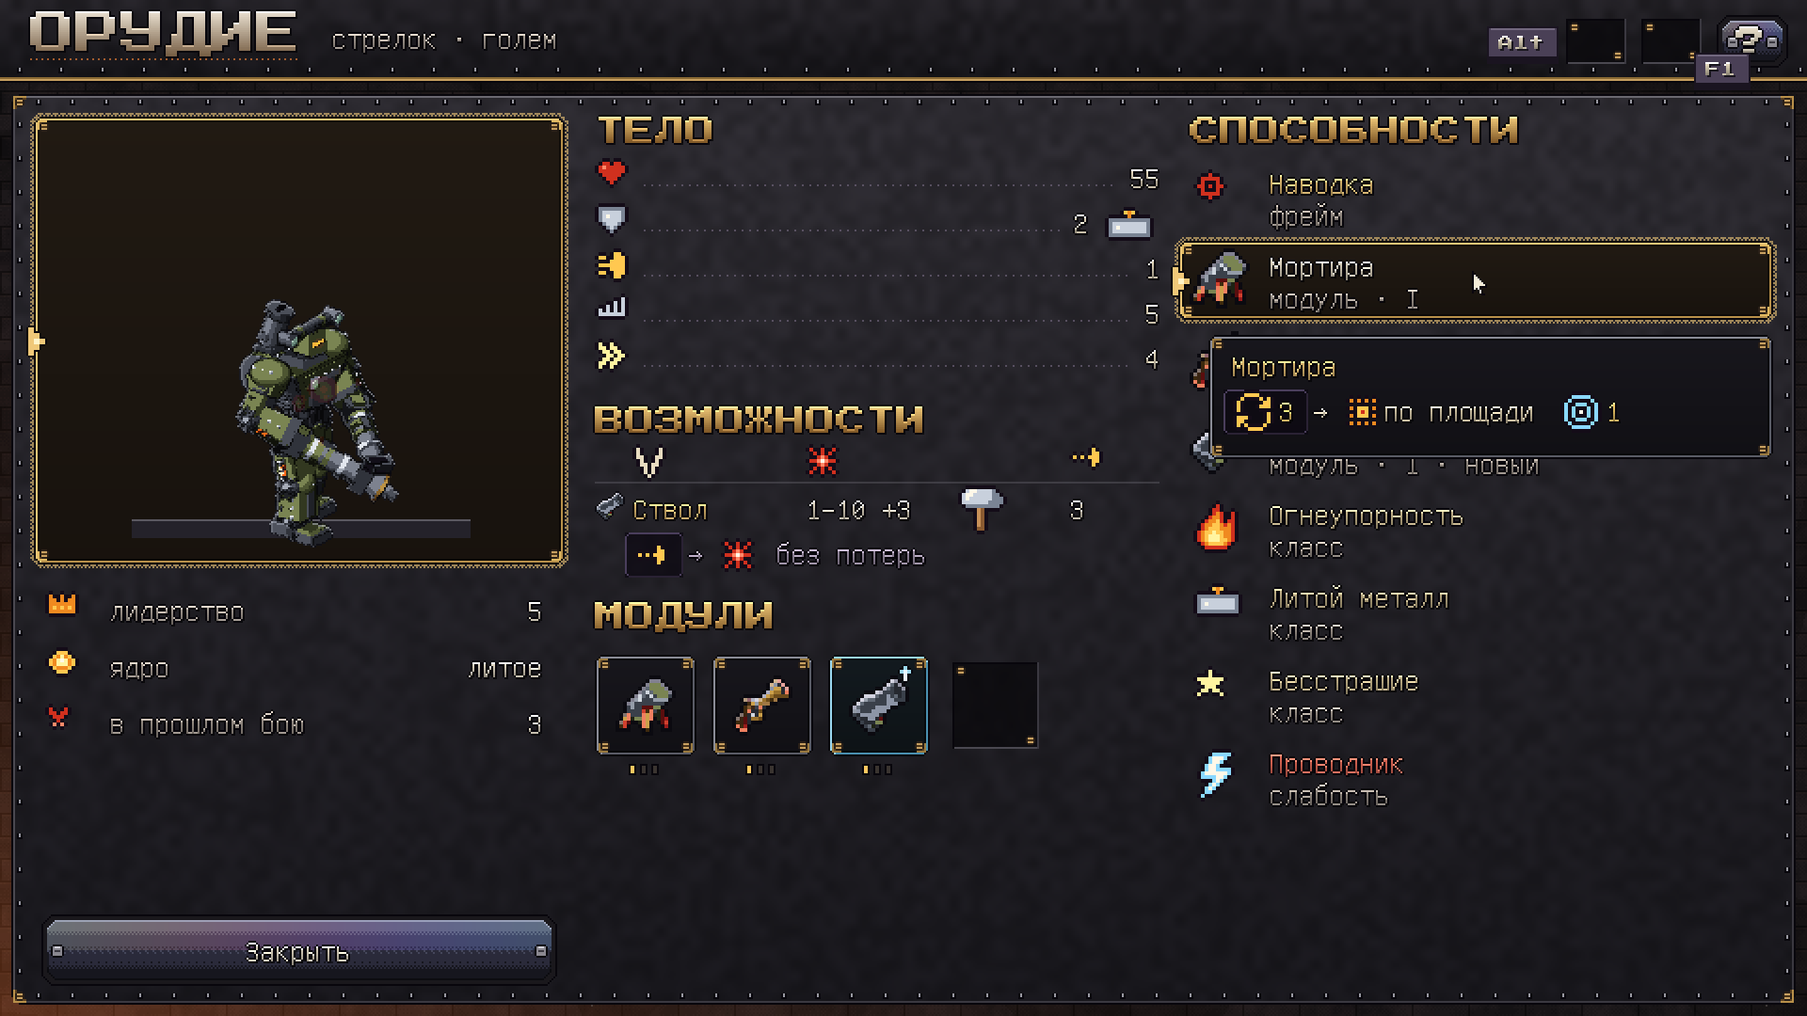
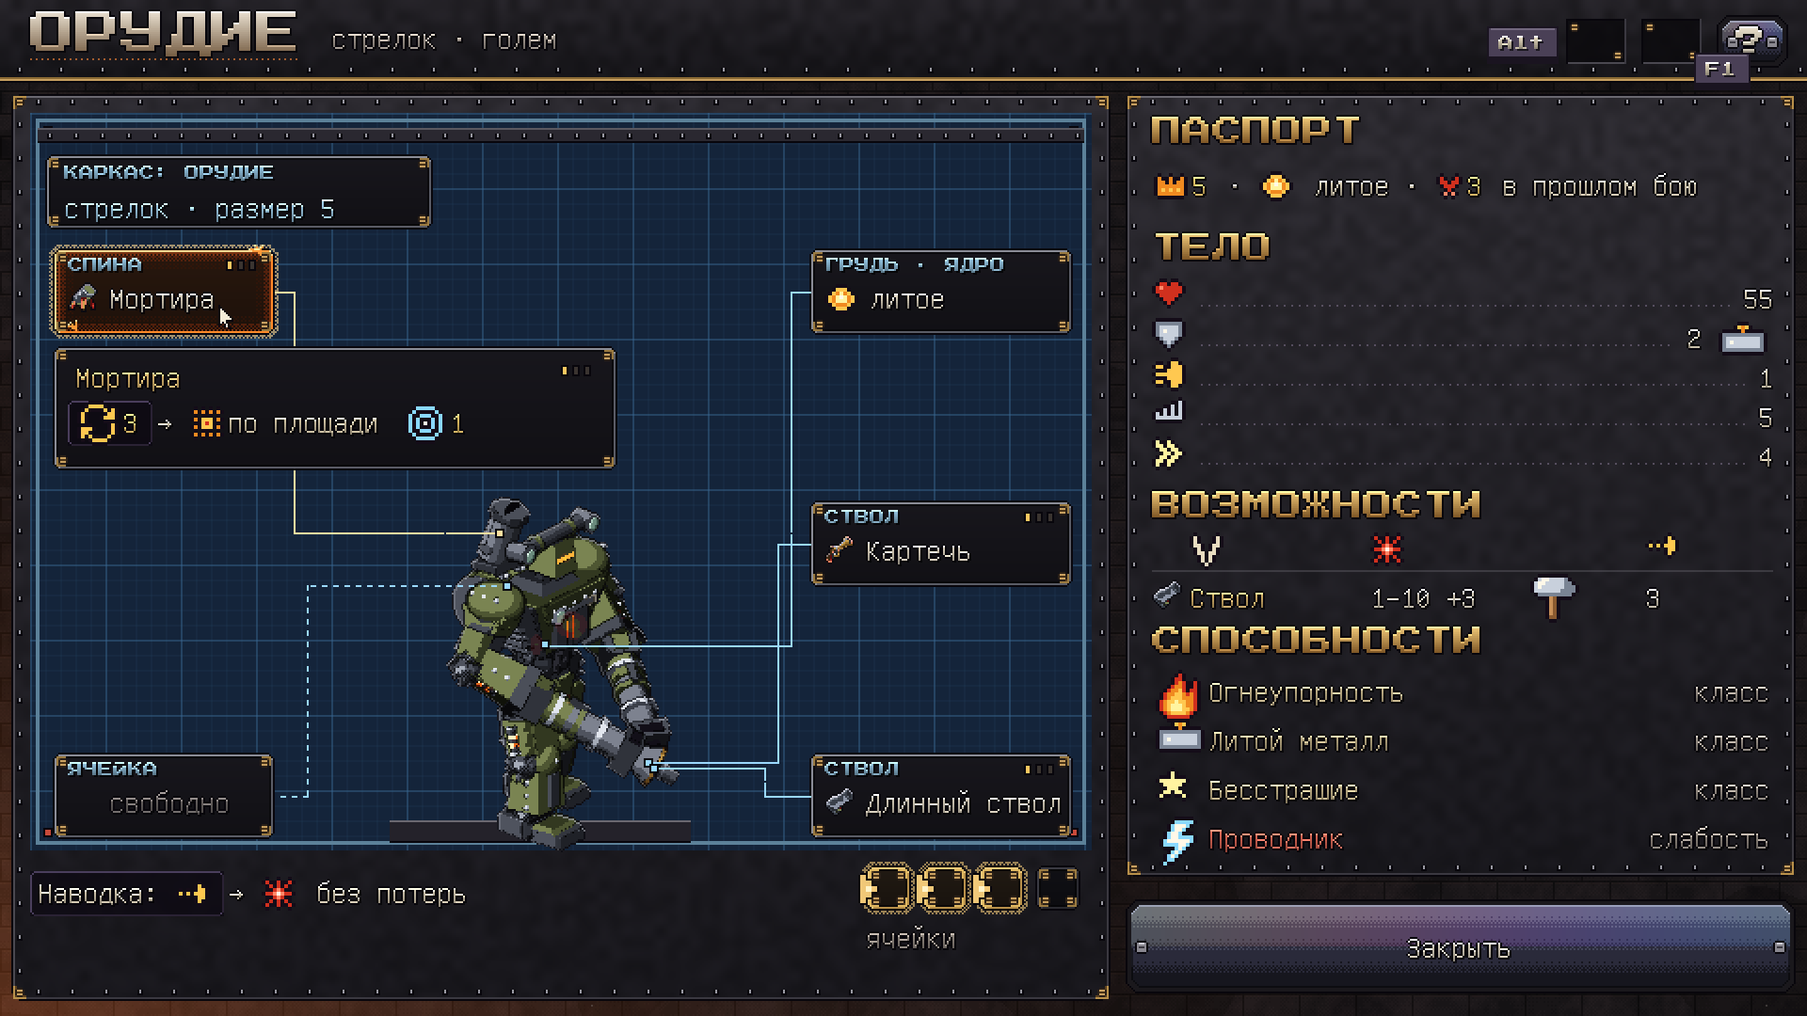
Foundry: golem card and aftermath in the slipway's drawing language
Claude-Session: https://claude.ai/code/session_01Bh6a99SKMjjKSinDnrtssC

diff --git a/tools/sprites/foundry_hud.py b/tools/sprites/foundry_hud.py
@@ -390,36 +390,33 @@ def rack(sc, x0, y0, x1, sel="Орудие"):
     return y + 44
 
 
-def workshop(variant=None, frame="Орудие", new_key="long", name=None):
-    """The slipway: the golem on the workbench before its drawing, a callout from every mount to its part — measured
-    on the sprite, named by where it sits (back, shoulder, arm, chest, legs); empty cells dashed; the chest with its
-    core. The chosen part hangs from the crane over the mount it takes. On the left the army on its rack; on the right
-    the crate with what the battle brought, one of three."""
-    import frames as F
-    sc = screen(11)
-    FU.wing(sc, 0, 0, WW, 44)
-    title(sc, "МАСТЕРСКАЯ")
-    metal(sc, 14)
-    toolbar(sc)
-    rack(sc, 10, 52, 168, sel=frame)
-    _, ncell, mods, core, state = next(g for g in ARMY if g[0] == frame)
-    role = {"Страж": "танк · размер 6", "Мудрец": "маг · размер 5", "Горн": "контроль · размер 5",
-            "Орудие": "стрелок · размер 5", "Механик": "поддержка · размер 4"}[frame]
-    FU.plate(sc, 176, 52, 700, 462, seed=3)
-    blueprint_sheet(sc, 186, 62, 690, 408)
-    sc.rgb[70:78, 190:686] = hexc("#2a2830")                         # the gantry beam
-    sc.rgb[70, 190:686] = hexc("#5a5860")
-    sc.rgb[77, 190:686] = SU.OUTL
-    for x in range(196, 686, 14):
-        FU.rivet(sc, x, 74)
-    show = dict(mods)
-    K = {"Страж": 1.55, "Механик": 2.5}.get(frame, 2.15)
-    spr = golem_sprite(frame, show, K)
-    fx_, fy_ = 432, 390
+ROLE = {"Страж": "танк · размер 6", "Мудрец": "маг · размер 5", "Горн": "контроль · размер 5",
+        "Орудие": "стрелок · размер 5", "Механик": "поддержка · размер 4"}
+SCALE = {"Страж": 1.55, "Механик": 2.5}          # how large each frame stands on a full-height drawing
+
+
+def slipway(sc, frame, mods, core, ncell, rect, new_key=None, variant=None, role=None, broken=False,
+            damaged=(), hover=None, crane=True, lw=118, rw=140):
+    """The drawing with the golem before it: the gantry beam, the frame's plate top left, the golem on its stand,
+    a callout from every mount (measured on the sprite) to its part's box — left or right by where the mount is,
+    each line in its own lane; empty cells dashed, the chest with its core. new_key — the part on the crane, hot;
+    damaged — modules that broke, their boxes and lines red; hover — the box under the mouse. Returns where the
+    hot part is (or the hovered box), for the cursor."""
+    x0, y0, x1, y1 = rect
+    blueprint_sheet(sc, x0, y0, x1, y1)
+    sc.rgb[y0 + 8:y0 + 16, x0 + 4:x1 - 4] = hexc("#2a2830")         # the gantry beam
+    sc.rgb[y0 + 8, x0 + 4:x1 - 4] = hexc("#5a5860")
+    sc.rgb[y0 + 15, x0 + 4:x1 - 4] = SU.OUTL
+    for x in range(x0 + 10, x1 - 4, 14):
+        FU.rivet(sc, x, y0 + 12)
+    K = SCALE.get(frame, 2.15) * (y1 - y0) / 346
+    spr = golem_sprite(frame, dict(mods), K)
+    fx_ = x0 + 12 + lw + int((x1 - x0 - 24 - lw - rw) / 2)
+    fy_ = y1 - 18
     sc.rgb[fy_ + 2:fy_ + 14, fx_ - 80:fx_ + 80] = hexc("#24222a")    # the stand
     sc.rgb[fy_ + 2, fx_ - 80:fx_ + 80] = hexc("#6a6870")
     sc.rgb[fy_ + 13, fx_ - 80:fx_ + 80] = SU.OUTL
-    if state == "broken":
+    if broken:
         from swarm_effects import lit
         spr = lit(spr, (70, 70, 80), 0.45)
     sc.blit(spr, int(fx_ - spr.ox), int(fy_ - spr.oy))
@@ -429,10 +426,9 @@ def workshop(variant=None, frame="Орудие", new_key="long", name=None):
     parts = []                                                       # (label, point, key, level, state)
     for k_, lv in mods.items():
         p = M.get(k_, [0, -60])
-        parts.append((MOUNT_NAME.get(k_, region(frame, p)), at(p), k_, lv, "normal"))
+        parts.append((MOUNT_NAME.get(k_, region(frame, p)), at(p), k_, lv, "broken" if k_ in damaged else "normal"))
     frees = free_spots(frame, [M.get(k_, [0, -60]) for k_ in mods])
-    nfree = ncell - len(mods)
-    for j in range(nfree):
+    for j in range(ncell - len(mods)):
         lab, p = frees[j]
         if j == 0 and new_key:                                       # the free cell the part on the crane will take
             p = M.get(new_key, p)
@@ -440,9 +436,8 @@ def workshop(variant=None, frame="Орудие", new_key="long", name=None):
         else:
             parts.append(("ячейка", at(p), None, 0, "free"))
     top = M["_body"][2]
-    core_p = at(((M["_body"][0] + M["_body"][1]) / 2 * 0.3, top * 0.55))
-    parts.append(("грудь · ядро", core_p, core, 0, "core"))
-    # left or right of the golem by where the mount is; each side stacked top to bottom
+    if core:
+        parts.append(("грудь · ядро", at(((M["_body"][0] + M["_body"][1]) / 2 * 0.3, top * 0.55)), core, 0, "core"))
     left = sorted([p for p in parts if p[1][0] < fx_], key=lambda t: t[1][1])
     right = sorted([p for p in parts if p[1][0] >= fx_], key=lambda t: t[1][1])
     while len(left) > 4:
@@ -451,17 +446,17 @@ def workshop(variant=None, frame="Орудие", new_key="long", name=None):
         left.append(right.pop())
     left.sort(key=lambda t: t[1][1])
     right.sort(key=lambda t: t[1][1])
+    FU.cell(sc, x0 + 8, y0 + 22, x0 + 214, y0 + 62, "normal")       # the frame's own plate on the drawing
+    letters(sc, f"КАРКАС: {frame.upper()}", x0 + 18, y0 + 28, "title", 8, col=(150, 200, 230), outline=False)
+    letters(sc, role or ROLE[frame], x0 + 18, y0 + 42, "text", 16, col=(170, 220, 250), outline=False)
     hot = None
-    # the frame's own plate on the drawing, top left
-    FU.cell(sc, 194, 84, 400, 124, "normal")
-    letters(sc, f"КАРКАС: {frame.upper()}", 204, 90, "title", 8, col=(150, 200, 230), outline=False)
-    letters(sc, role, 204, 104, "text", 16, col=(170, 220, 250), outline=False)
+    RED_ = hexc("#ff6a4a")
     for side, items in (("l", left), ("r", right)):
         n = len(items)
         for j, (lab, pt, key, lv, st) in enumerate(items):
-            by = int(134 + j * 222 / (n - 1)) if n > 1 else 240
-            bx = 198 if side == "l" else 540
-            bw = 118 if side == "l" else 140
+            by = int(y0 + 72 + j * (y1 - y0 - 124) / (n - 1)) if n > 1 else int(y0 + (y1 - y0) / 2)
+            bw = lw if side == "l" else rw
+            bx = x0 + 12 if side == "l" else x1 - 10 - rw
             ex = bx + bw if side == "l" else bx
             lane = (ex + 10 + j * 7) if side == "l" else (ex - 10 - j * 7)
             if st == "core":
@@ -477,16 +472,43 @@ def workshop(variant=None, frame="Орудие", new_key="long", name=None):
                 letters(sc, MOD_NAME[key], bx + 28, by + 18, "text", 16, col=(255, 210, 150))
                 callout(sc, pt, (ex, by + 23), col=hexc("#ffb060"), lane=lane)
                 hot = (pt, bx + bw - 30, by + 30)
+            elif st == "broken":
+                part_box(sc, bx, by, key, lab, lv, state="broken", w=bw)
+                callout(sc, pt, (ex, by + 23), col=RED_, lane=lane)
+                sc.glow(pt[0], pt[1], 8, RED_, 0.5)
             else:
-                part_box(sc, bx, by, key, lab, lv, w=bw)
-                callout(sc, pt, (ex, by + 23), dash=st == "free", lane=lane)
-    if hot:                                                            # the crane: the part over its mount
+                part_box(sc, bx, by, key, lab, lv, state="hover" if key and key == hover else "normal", w=bw)
+                callout(sc, pt, (ex, by + 23), col=hexc("#ffe0a0") if key and key == hover else BLUE,
+                        dash=st == "free", lane=lane)
+                if key and key == hover:
+                    hot = (pt, bx + bw - 30, by + 30, bx, by, side)
+    if hot and new_key and crane:                                    # the crane: the part over its mount
         pt = hot[0]
         hx = int(pt[0])
-        bottom = crane_hook(sc, hx, 70, 100, new_key)
+        bottom = crane_hook(sc, hx, y0 + 8, y0 + 38, new_key)
         sc.glow(pt[0], pt[1], 10, hexc("#ffb060"), 0.6)
         for k in range(bottom + 4, int(pt[1]) - 8, 4):
             sc.rgb[k:k + 2, hx] = hexc("#ffb060")
+    return hot
+
+
+def workshop(variant=None, frame="Орудие", new_key="long", name=None):
+    """The slipway: the golem on the workbench before its drawing, a callout from every mount to its part — measured
+    on the sprite, named by where it sits (back, shoulder, arm, chest, legs); empty cells dashed; the chest with its
+    core. The chosen part hangs from the crane over the mount it takes. On the left the army on its rack; on the right
+    the crate with what the battle brought, one of three."""
+    import frames as F
+    sc = screen(11)
+    FU.wing(sc, 0, 0, WW, 44)
+    title(sc, "МАСТЕРСКАЯ")
+    metal(sc, 14)
+    toolbar(sc)
+    rack(sc, 10, 52, 168, sel=frame)
+    _, ncell, mods, core, state = next(g for g in ARMY if g[0] == frame)
+    role = ROLE[frame]
+    FU.plate(sc, 176, 52, 700, 462, seed=3)
+    hot = slipway(sc, frame, mods, core, ncell, (186, 62, 690, 408), new_key=new_key, variant=variant,
+                  role=role, broken=state == "broken")
     # under the drawing: the frame's own and its cells
     passive = {"Страж": "Заслон: {радиус:1} → {цель:1}", "Мудрец": "Питание: {свой} {радиус:1} → {через:−1}",
                "Горн": "Жар горна: {каждые:1} → {огонь} {радиус:1}", "Орудие": "Наводка: {дальность} → {урон} без потерь",
@@ -693,43 +715,42 @@ ABIL = {   # the frame's and the class's own, in glyphs
 }
 
 
-def card(frame="Орудие", hover="Мортира"):
-    """A golem's card, as in Conquest of Elysium: the golem large on its stand with what it costs and what drives it;
-    its body and its blow in a column; its modules in their cells, level by level; on the right what it can and can't,
-    the one under the mouse opened in a tooltip."""
+def card(frame="Орудие", hover="mortar"):
+    """A golem's card, in the slipway's language: on the left its drawing, a callout from every mount to its module
+    (the one under the mouse opened in a tooltip), the chest with its core, its own rule and its cells under it; on
+    the right its passport — leadership, core, last battle; body; blow; what its class can and can't."""
     sc = screen(13)
     FU.wing(sc, 0, 0, WW, 44)
     title(sc, frame.upper(), "стрелок · голем")
     toolbar(sc)
-    FU.plate(sc, 6, 50, WW - 6, HH - 6, seed=7)
     mods = {"mortar": 1, "canister": 1, "long": 1}
-    # left: the golem
-    FU.cell(sc, 18, 62, 300, 300, "hi")
-    spr = golem_sprite(frame, mods, 1.7)
-    sc.rgb[276:286, 70:250] = hexc("#24222a")
-    sc.rgb[276, 70:250] = hexc("#5a5860")
-    sc.blit(spr, int(160 - spr.ox), int(278 - spr.oy))
-    y = 314
-    for key, lab, val in (("лидер", "лидерство", "5"), ("ядро", "ядро", "литое"), ("убийство", "в прошлом бою", "3")):
-        H.glyph(sc, key, 24, y, 2)
-        letters(sc, lab, 58, y + 2, "text", 16, col=MUTED)
-        letters(sc, val, 290, y + 2, "text", 16, col=INK, align="right")
-        y += 30
-    action(sc, 22, HH - 54, 296, HH - 16, "Закрыть", "steel")
-    # middle: body, blow, modules
-    x0, x1 = 316, 616
-    heading(sc, "ТЕЛО", x0, 62)
-    y = 88
+    ncell, core = 4, "cast"
+    # left: the drawing
+    FU.plate(sc, 6, 50, 590, 532, seed=7)
+    hot = slipway(sc, frame, mods, core, ncell, (16, 60, 580, 452), hover=hover, crane=False)
+    H.fx_line(sc, 20, 466, "Наводка: {дальность} → {урон} без потерь")
+    for j in range(ncell):
+        cx_ = 580 - (ncell - j) * 30
+        FU.cell(sc, cx_, 460, cx_ + 24, 484, "hi" if j < len(mods) else "locked")
+    letters(sc, "ячейки", 580 - ncell * 30, 490, "text", 16, col=MUTED)
+    # right: the passport
+    x0, x1 = 612, WW - 18
+    FU.plate(sc, 598, 50, WW - 6, 466, seed=8)
+    heading(sc, "ПАСПОРТ", x0, 62)
+    H.fx_line(sc, x0, 90, "{лидер:5} · {ядро} литое · {убийство:3} в прошлом бою")
+    y = 124
+    heading(sc, "ТЕЛО", x0, y)
+    y += 28
     for key, val in (("здоровье", "55"), ("броня", "2 {литой}"), ("скорость", "1"), ("размер", "5"), ("инициатива", "4")):
         a_ = H.glyph(sc, key, x0, y - 4, 2)
         w, _ = H.fx_line(sc, 0, 0, val, draw=False)
         H.dots(sc, x0 + a_ + 8, x1 - w - 6, y + 10)
         H.fx_line(sc, x1 - w, y - 2, val)
-        y += 24
-    y += 8
+        y += 21
+    y += 4
     heading(sc, "ВОЗМОЖНОСТИ", x0, y)
-    y += 26
-    cols = (x0 + 20, x0 + 112, x0 + 192, x0 + 252)
+    y += 28
+    cols = (x0 + 20, x0 + 116, x0 + 200, x0 + 262)
     for cx, lab in zip(cols, ("атака", "урон", None, "дальность")):
         if lab:
             H.glyph(sc, lab, cx, y - 6, 2)
@@ -741,50 +762,29 @@ def card(frame="Орудие", hover="Мортира"):
     H.fx_line(sc, cols[2], y + 6, "{дроб}")
     letters(sc, "3", cols[3], y + 6, "text", 16, col=INK)
     y += 30
-    H.fx_line(sc, x0 + 20, y, ABIL["Наводка"][1], dim=True)
-    y += 34
-    heading(sc, "МОДУЛИ", x0, y)
-    y += 28
-    for j, (k_, lv) in enumerate(list(mods.items()) + [(None, 0)]):
-        sx = x0 + j * 62
-        if k_:
-            FU.cell(sc, sx, y, sx + 54, y + 54, "new" if k_ == "long" else "normal")
-            mod_icon(sc, k_, sx + 11, y + 11, 2)
-            FU.levels(sc, sx + 18, y + 58, lv)
-        else:
-            FU.socket(sc, sx + 4, y + 4, sx + 50, y + 50)
-    # right: what it can and can't
-    rx0, rx1 = 632, WW - 18
-    heading(sc, "СПОСОБНОСТИ", rx0, 62)
-    rows = [("glyph", "цель", "Наводка", "фрейм", GOLD),
-            ("mod", "mortar", "Мортира", "модуль · I", INK),
-            ("mod", "canister", "Картечь", "модуль · I", INK),
-            ("mod", "long", "Длинный ствол", "модуль · I · новый", (140, 200, 230)),
-            ("glyph", "огонь", "Огнеупорность", "класс", (214, 196, 150)),
-            ("glyph", "литой", "Литой металл", "класс", (214, 196, 150)),
-            ("glyph", "дух", "Бесстрашие", "класс", (214, 196, 150)),
-            ("glyph", "молния", "Проводник", "слабость", RED)]
-    y = 88
-    for kind, key, nm, lab, col in rows:
-        if nm == hover:
-            FU.cell(sc, rx0 - 6, y - 4, rx1, y + 38, "hi")
-            hy = y
-        if kind == "mod":
-            mod_icon(sc, key, rx0, y, 2)
-        else:
-            H.glyph(sc, key, rx0 + 2, y + 2, 2)
-        letters(sc, nm, rx0 + 42, y + 1, "text", 16, col=col)
-        letters(sc, lab, rx0 + 42, y + 18, "text", 16, col=MUTED)
-        y += 44
-    # the one under the mouse
-    key = {"Мортира": "mortar", "Картечь": "canister", "Длинный ствол": "long"}.get(hover)
-    lines = MOD_FX[key] if key else ABIL[hover]
-    th = H.fx_rows(sc, 0, 0, rx1 - rx0 - 24, lines, draw=False) + 40
-    ty = min(hy + 46, HH - 16 - th)
-    FU.cell(sc, rx0 + 10, ty, rx1, ty + th, "normal")
-    letters(sc, hover, rx0 + 22, ty + 8, "text", 16, col=GOLD)
-    H.fx_rows(sc, rx0 + 22, ty + 32, rx1 - rx0 - 34, lines)
-    H.cursor(sc, rx0 + 150, hy + 12)
+    heading(sc, "СПОСОБНОСТИ", x0, y)
+    y += 26
+    for key, nm, lab, col in (("огонь", "Огнеупорность", "класс", (214, 196, 150)),
+                              ("литой", "Литой металл", "класс", (214, 196, 150)),
+                              ("дух", "Бесстрашие", "класс", (214, 196, 150)),
+                              ("молния", "Проводник", "слабость", RED)):
+        H.glyph(sc, key, x0 + 2, y - 3, 2)
+        letters(sc, nm, x0 + 30, y, "text", 16, col=col)
+        letters(sc, lab, x1, y, "text", 16, col=MUTED, align="right")
+        y += 26
+    action(sc, 598, 478, WW - 6, 528, "Закрыть", "steel")
+    # the module under the mouse: its tooltip under its box
+    if hot:
+        pt, cx, cy, bx, by, side = hot
+        lines = MOD_FX[hover]
+        tw = 300
+        th = H.fx_rows(sc, 0, 0, tw - 24, lines, draw=False) + 40
+        tx = bx if side == "l" else bx + 140 - tw
+        FU.cell(sc, tx, by + 52, tx + tw, by + 52 + th, "normal")
+        letters(sc, MOD_NAME[hover], tx + 12, by + 60, "text", 16, col=GOLD)
+        FU.levels(sc, tx + tw - 30, by + 62, mods[hover])
+        H.fx_rows(sc, tx + 12, by + 84, tw - 24, lines)
+        H.cursor(sc, cx, cy)
     img = sc.image(S)
     img.save(out("foundry_card.png"))
     print("foundry_card.png", img.size)
@@ -862,6 +862,45 @@ def leaders_pick():
 
 
 # ---------------------------------------------------------------- after the battle
+def damage_drawing(sc, frame, mods, key, x, y, K):
+    """The golem as a drawing on the blueprint, the part that broke picked out in red — its own pixels, found as
+    what changes when the frame is drawn without it. Returns the part's mount, for the callout."""
+    full = golem_sprite(frame, mods, K)
+    bare = golem_sprite(frame, {k: v for k, v in mods.items() if k != key}, K)
+    d = drawn(full)
+    dx, dy = full.ox - bare.ox, full.oy - bare.oy
+    ys, xs = np.nonzero(full.a)
+    red = hexc("#ff6a4a")
+    for yy, xx in zip(ys, xs):
+        yb, xb = int(yy - dy), int(xx - dx)
+        if 0 <= yb < bare.h and 0 <= xb < bare.w and bare.a[yb, xb] and np.abs(full.rgb[yy, xx] - bare.rgb[yb, xb]).sum() < 30:
+            continue
+        d.rgb[yy, xx] = red if d.rgb[yy, xx].sum() > hexc("#1e3a5a").sum() + 30 else red * 0.45 + hexc("#1e3a5a") * 0.55
+    sc.rgb[y + 2:y + 6, x - 60:x + 60] = BLUE * 0.6                 # the ground line of the drawing
+    sc.blit(d, int(x - d.ox), int(y - d.oy))
+    p = mounts()[frame][key]
+    sk = K / 1.6
+    pt = (x + p[0] * sk, y + p[1] * sk)
+    sc.glow(pt[0], pt[1], 12, red, 0.5)
+    return pt
+
+
+def stamp(sc, x, y, text, col="#e0503a"):
+    """A rubber stamp on the drawing: red letters in a double red frame, a little worn."""
+    w = SU.text_width(text, "title", 8) + 16
+    c = hexc(col)
+    for k in (0, 2):
+        sc.rgb[y + k, x + k:x + w - k] = c
+        sc.rgb[y + 21 - k, x + k:x + w - k] = c
+        sc.rgb[y + k:y + 22 - k, x + k] = c
+        sc.rgb[y + k:y + 22 - k, x + w - 1 - k] = c
+    letters(sc, text, x + 8, y + 7, "title", 8, col=tuple(int(v) for v in c), outline=False, shadow=False)
+    rng = np.random.default_rng(len(text))
+    for _ in range(18):                                               # worn spots
+        sx, sy = x + rng.integers(0, w), y + rng.integers(0, 22)
+        sc.rgb[sy, sx] = hexc("#14243a")
+
+
 def aftermath():
     """Victory: what broke and what it cost, what the battle paid, who did what."""
     import frames as F
@@ -871,20 +910,24 @@ def aftermath():
     title(sc, "ПОБЕДА")
     metal(sc, 20)
     toolbar(sc)
-    # broken
+    # broken: the damage report — the golem as a drawing, the part that broke in red, a red callout to it
     FU.plate(sc, 12, 52, 330, 462, seed=31)
     heading(sc, "ПОЛОМКИ", 26, 64)
-    g = lit(F.build("Мудрец", "broken", k=1.6 * 1.35), (70, 70, 80), 0.45)
-    sc.blit(g, int(170 - g.ox), int(262 - g.oy))
-    FU.steam(sc, 196, 150, 14, seed=2)
-    H.glyph(sc, "поломка", 26, 92, 2)
-    letters(sc, "Мудрец", 60, 94, "text", 16, col=INK)
-    FU.cell(sc, 22, 276, 320, 340, "broken")
-    mod_icon(sc, "overload", 32, 290, 2)
-    letters(sc, "Перегрузка", 74, 286, "text", 16, col=INK)
-    H.fx_line(sc, 74, 308, "{модуль:II} ⇒ {модуль:I}")
-    H.fx_line(sc, 26, 360, "{ремонт} → {металл:2}")
-    H.fx_line(sc, 26, 392, "не починил → пропускает бой", dim=True)
+    blueprint_sheet(sc, 22, 90, 320, 304)
+    FU.cell(sc, 30, 98, 178, 134, "normal")
+    letters(sc, "КАРКАС: МУДРЕЦ", 38, 103, "title", 8, col=(150, 200, 230), outline=False)
+    letters(sc, ROLE["Мудрец"], 38, 116, "text", 16, col=(170, 220, 250), outline=False)
+    pt = damage_drawing(sc, "Мудрец", {"chain": 1, "fireball": 1, "overload": 2}, "overload", 236, 292, 2.4)
+    stamp(sc, 32, 268, "В РЕМОНТ")
+    lane = 160
+    callout(sc, pt, (lane, 314), col=hexc("#ff6a4a"), lane=lane)
+    FU.cell(sc, 22, 314, 320, 378, "broken")
+    letters(sc, "СПИНА", 32, 319, "title", 8, col=(230, 150, 130), outline=False)
+    mod_icon(sc, "overload", 32, 334, 2)
+    letters(sc, "Перегрузка", 74, 332, "text", 16, col=INK)
+    H.fx_line(sc, 74, 352, "{модуль:II} ⇒ {модуль:I}")
+    H.fx_line(sc, 26, 394, "{ремонт} → {металл:2}")
+    H.fx_line(sc, 26, 424, "не починил → пропускает бой", dim=True)
     # the battle's pay
     FU.plate(sc, 340, 52, 640, 462, seed=32)
     heading(sc, "ДОБЫЧА", 354, 64)
